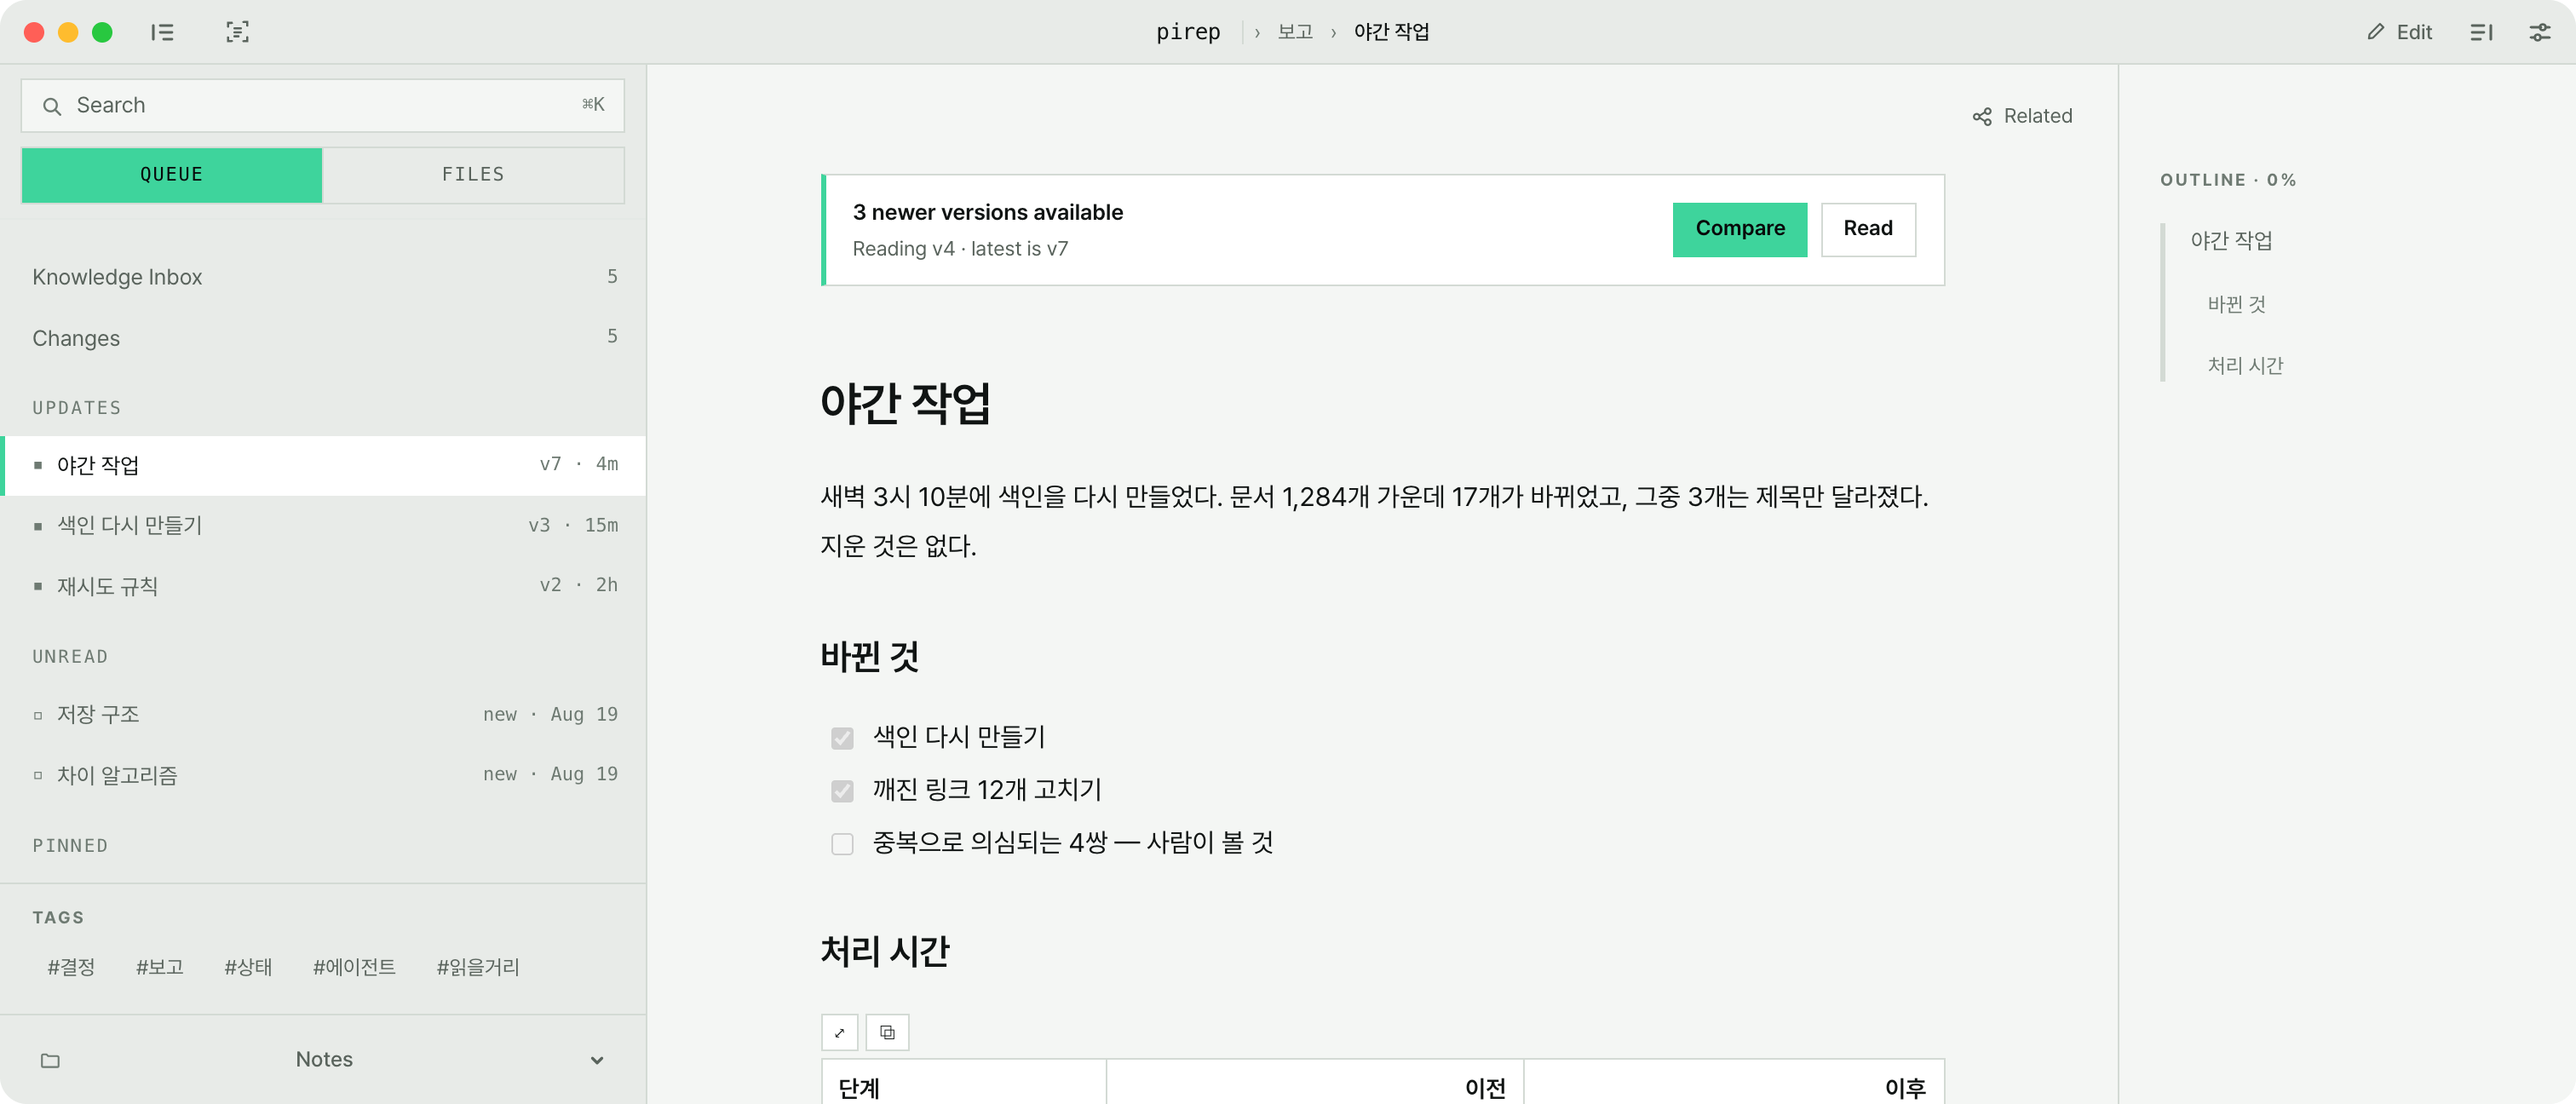
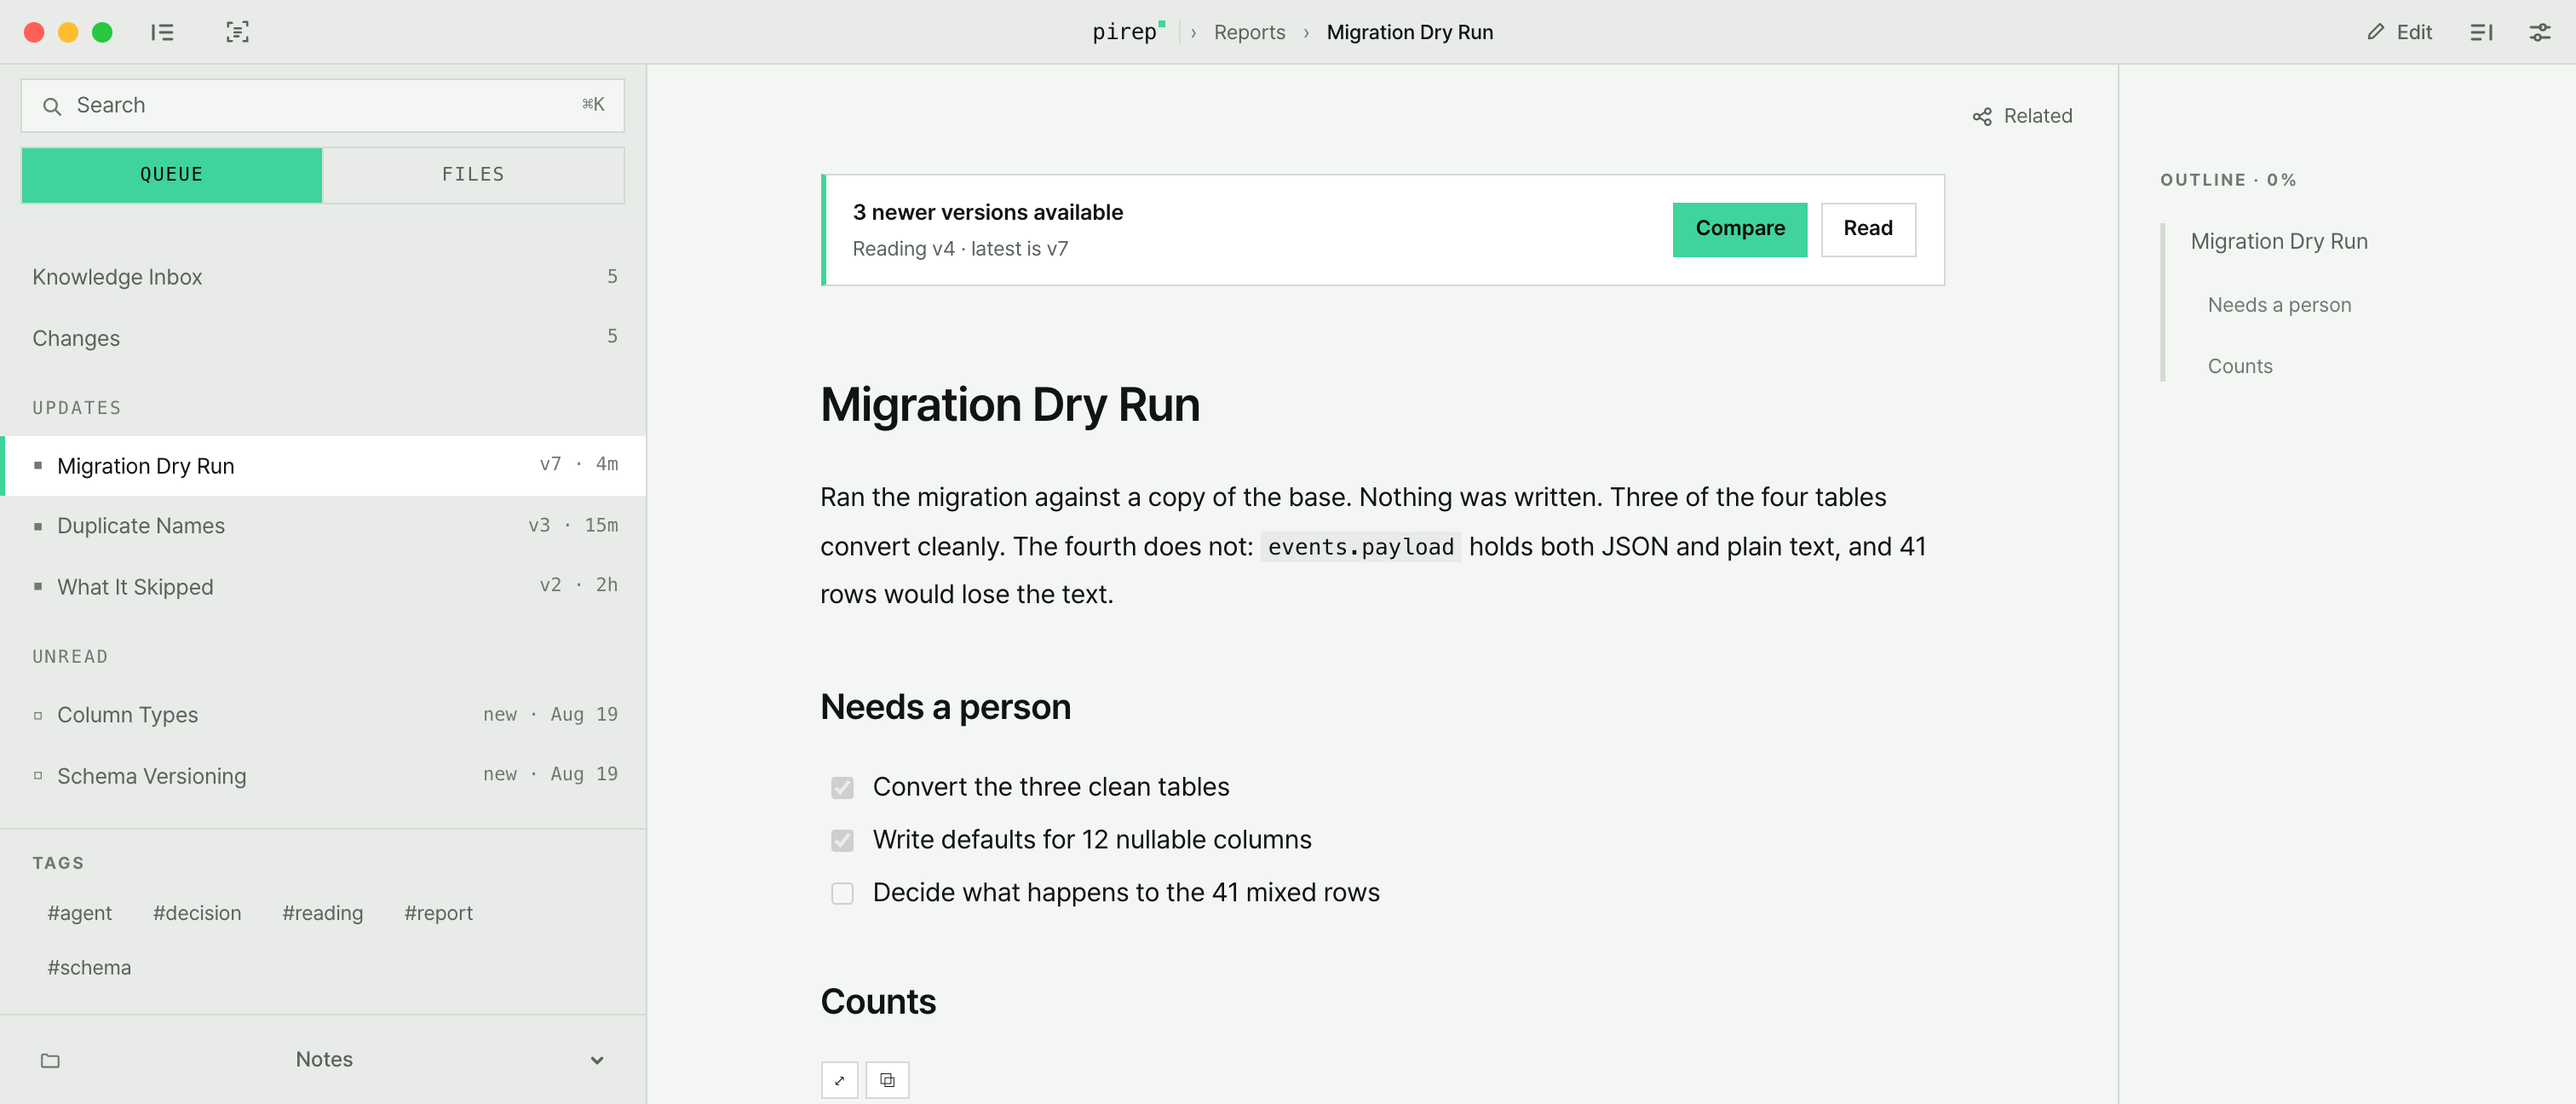
fix: one set of screenshots, and let the theme drive them
The two sites disagreed. The homepage swapped the picture with the language
and ignored the theme; the portfolio did the opposite. Both now do the same
thing: one English set, switched by theme.

The homepage carried the choice in an inline display rule, which is why the
theme could not reach it. The images take the design system's .gn-shot
classes instead, the same ones the portfolio uses.

The demo rounds the app window by 16px. On a dark page that left a white
notch in each corner where the page showed through. The corners are square in
the capture now, which is what the rest of the system does anyway.

Claude-Session: https://claude.ai/code/session_01E7TjQGctJ1UY3Fng7a3haP

diff --git a/site/index.html b/site/index.html
@@ -120,8 +120,8 @@ img[src*="assets/"] { border: 1px solid var(--line); }
 
   <div  style="border-bottom: 1px solid var(--line); background: var(--bg-2);">
     <div  style="max-width: 1120px; margin: 0px auto; padding: 48px 28px 0px;">
-      <img  src="./assets/hero-reader-light.png" alt="pirep 리더 화면 — 왼쪽에 읽을 문서 목록, 가운데에 문서, 오른쪽에 목차" style="display: block; width: 100%; height: auto; border-top-color: ; border-top-style: ; border-top-width: ; border-right-color: ; border-right-style: ; border-right-width: ; border-bottom: 0px; border-left-color: ; border-left-style: ; border-left-width: ; border-image-source: ; border-image-slice: ; border-image-width: ; border-image-outset: ; border-image-repeat: ; background: var(--bg);">
-      <img  src="./assets/hero-reader-dark.png" alt="pirep 리더 화면 — 왼쪽에 읽을 문서 목록, 가운데에 문서, 오른쪽에 목차" style="display: none; width: 100%; height: auto; border-top-color: ; border-top-style: ; border-top-width: ; border-right-color: ; border-right-style: ; border-right-width: ; border-bottom: 0px; border-left-color: ; border-left-style: ; border-left-width: ; border-image-source: ; border-image-slice: ; border-image-width: ; border-image-outset: ; border-image-repeat: ; background: var(--bg);">
+      <img  class="gn-shot gn-shot-light" src="./assets/hero-reader-light.png" alt="pirep 리더 화면 — 왼쪽에 읽을 문서 목록, 가운데에 문서, 오른쪽에 목차" style="width: 100%; height: auto; border-top-color: ; border-top-style: ; border-top-width: ; border-right-color: ; border-right-style: ; border-right-width: ; border-bottom: 0px; border-left-color: ; border-left-style: ; border-left-width: ; border-image-source: ; border-image-slice: ; border-image-width: ; border-image-outset: ; border-image-repeat: ; background: var(--bg);">
+      <img  class="gn-shot gn-shot-dark" src="./assets/hero-reader-dark.png" alt="pirep 리더 화면 — 왼쪽에 읽을 문서 목록, 가운데에 문서, 오른쪽에 목차" style="width: 100%; height: auto; border-top-color: ; border-top-style: ; border-top-width: ; border-right-color: ; border-right-style: ; border-right-width: ; border-bottom: 0px; border-left-color: ; border-left-style: ; border-left-width: ; border-image-source: ; border-image-slice: ; border-image-width: ; border-image-outset: ; border-image-repeat: ; background: var(--bg);">
     </div>
   </div>
 

diff --git a/site/en/index.html b/site/en/index.html
@@ -120,8 +120,8 @@ You read.</span></h1>
 
   <div  style="border-bottom: 1px solid var(--line); background: var(--bg-2);">
     <div  style="max-width: 1120px; margin: 0px auto; padding: 48px 28px 0px;">
-      <img  src="../assets/hero-reader-en-light.png" alt="The pirep reader — reading queue on the left, the note in the middle, its outline on the right" style="display: block; width: 100%; height: auto; border-top-color: ; border-top-style: ; border-top-width: ; border-right-color: ; border-right-style: ; border-right-width: ; border-bottom: 0px; border-left-color: ; border-left-style: ; border-left-width: ; border-image-source: ; border-image-slice: ; border-image-width: ; border-image-outset: ; border-image-repeat: ; background: var(--bg);">
-      <img  src="../assets/hero-reader-en-dark.png" alt="The pirep reader — reading queue on the left, the note in the middle, its outline on the right" style="display: none; width: 100%; height: auto; border-top-color: ; border-top-style: ; border-top-width: ; border-right-color: ; border-right-style: ; border-right-width: ; border-bottom: 0px; border-left-color: ; border-left-style: ; border-left-width: ; border-image-source: ; border-image-slice: ; border-image-width: ; border-image-outset: ; border-image-repeat: ; background: var(--bg);">
+      <img  class="gn-shot gn-shot-light" src="../assets/hero-reader-light.png" alt="The pirep reader — reading queue on the left, the note in the middle, its outline on the right" style="width: 100%; height: auto; border-top-color: ; border-top-style: ; border-top-width: ; border-right-color: ; border-right-style: ; border-right-width: ; border-bottom: 0px; border-left-color: ; border-left-style: ; border-left-width: ; border-image-source: ; border-image-slice: ; border-image-width: ; border-image-outset: ; border-image-repeat: ; background: var(--bg);">
+      <img  class="gn-shot gn-shot-dark" src="../assets/hero-reader-dark.png" alt="The pirep reader — reading queue on the left, the note in the middle, its outline on the right" style="width: 100%; height: auto; border-top-color: ; border-top-style: ; border-top-width: ; border-right-color: ; border-right-style: ; border-right-width: ; border-bottom: 0px; border-left-color: ; border-left-style: ; border-left-width: ; border-image-source: ; border-image-slice: ; border-image-width: ; border-image-outset: ; border-image-repeat: ; background: var(--bg);">
     </div>
   </div>
 
